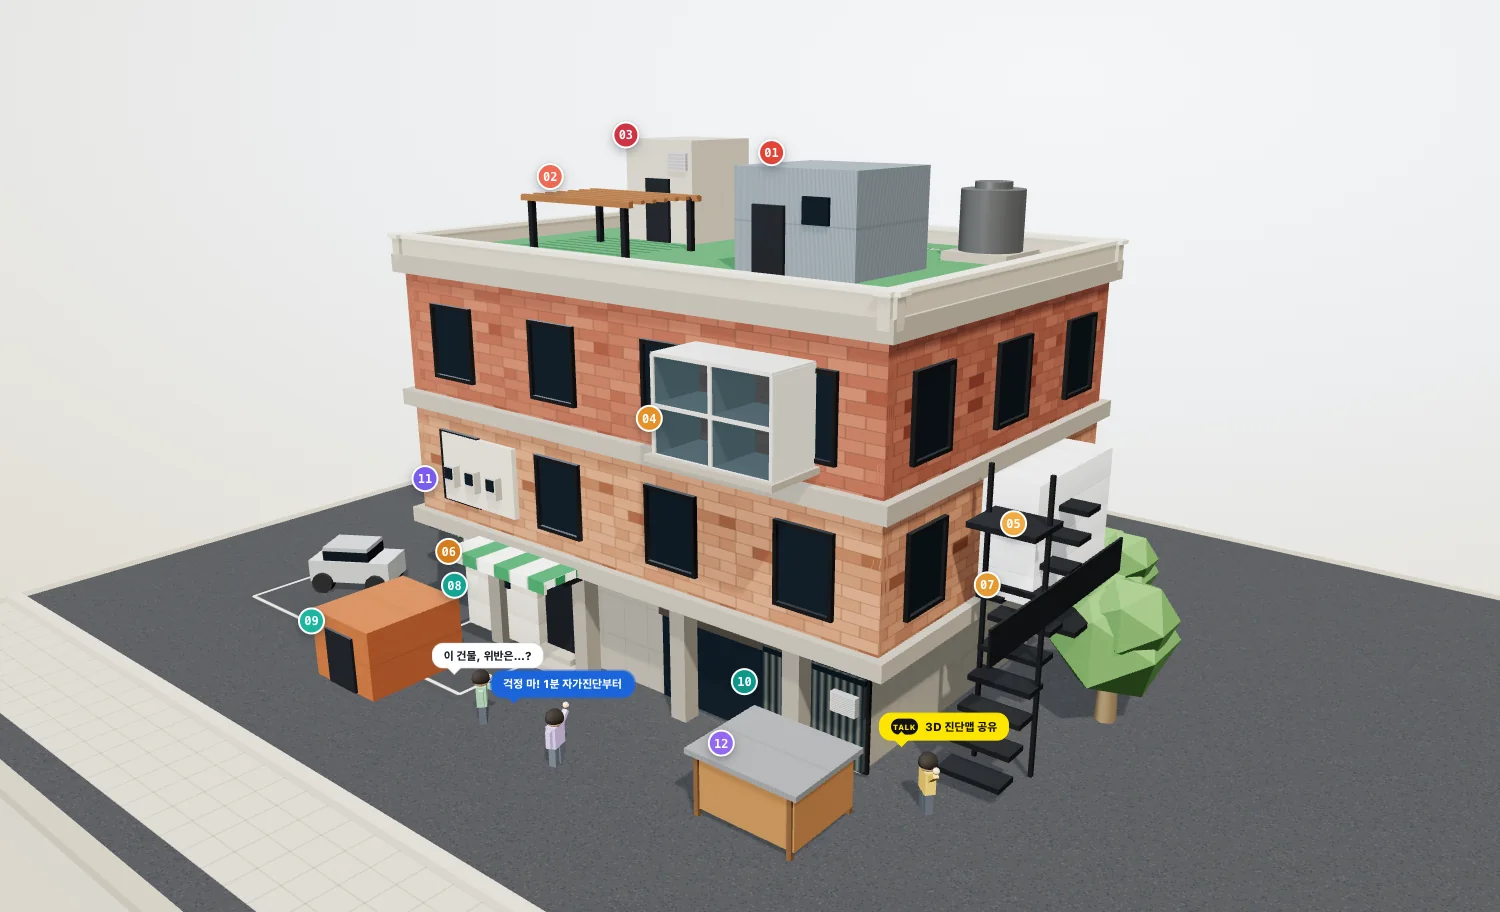
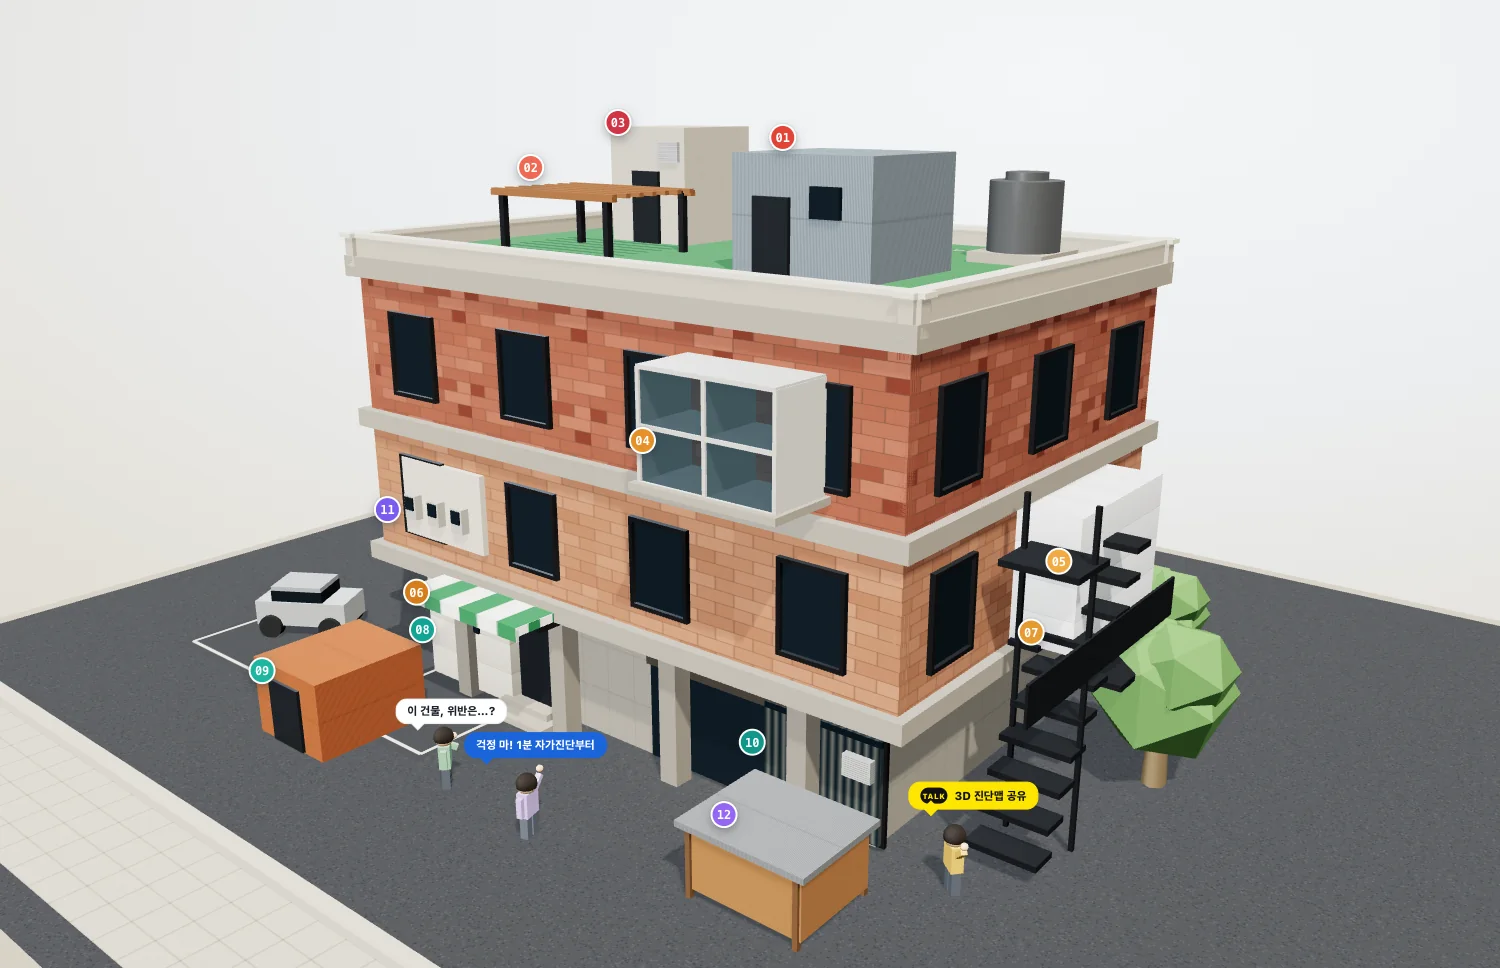
feat(landing): 3D 미리보기 캡처 약 10% 확대 재촬영

diff --git a/components/landing/Landing3DPreview.tsx b/components/landing/Landing3DPreview.tsx
@@ -39,7 +39,7 @@ export function Landing3DPreview() {
           <img
             src="/3d1.webp"
             width={1500}
-            height={912}
+            height={968}
             alt="3D 건물에서 위반 부위 12곳을 짚어보는 미리보기"
             className="h-full w-full object-cover transition duration-300 group-hover:scale-[1.03]"
           />
